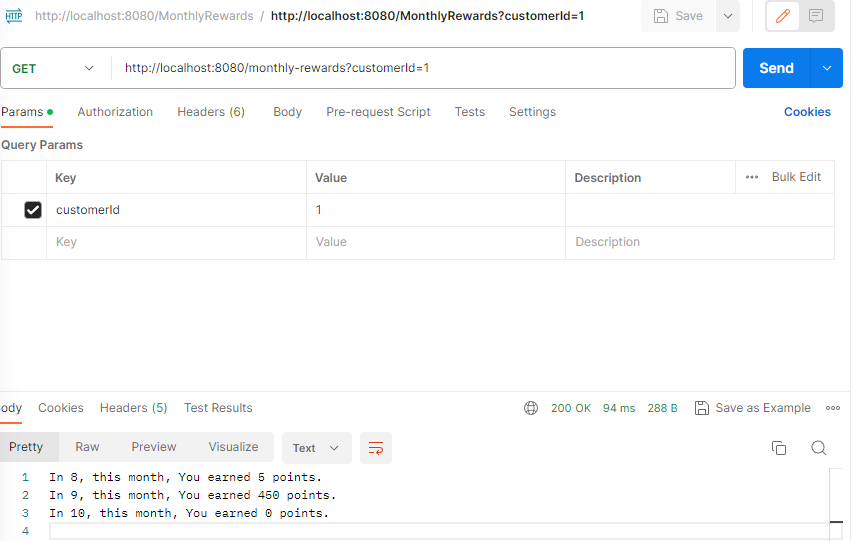
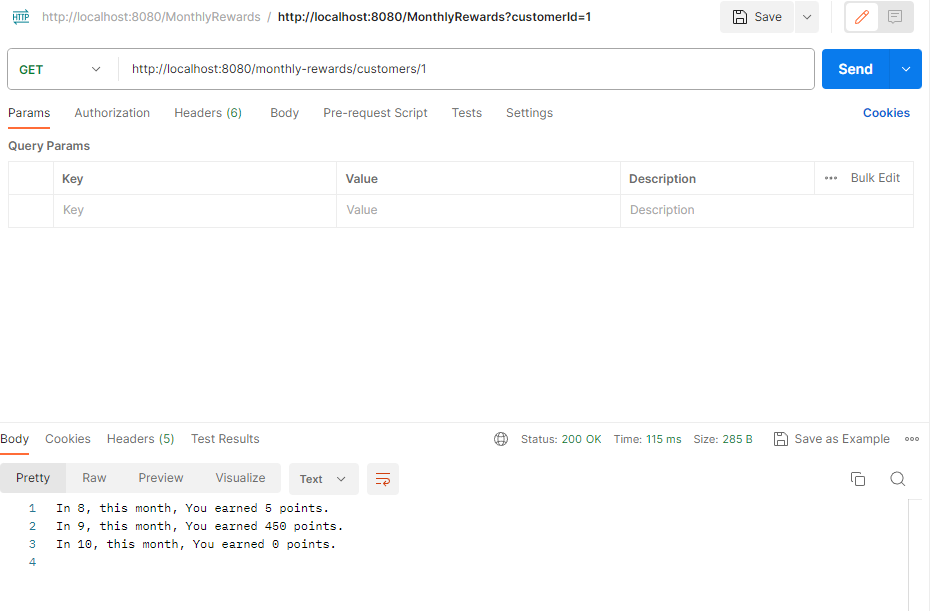
refactor controller to path variable and add jacoco test coverage to readme

diff --git a/src/main/java/com/challenge/code/controller/RewardsController.java b/src/main/java/com/challenge/code/controller/RewardsController.java
@@ -6,10 +6,9 @@ import lombok.extern.slf4j.Slf4j;
 import org.springframework.beans.factory.annotation.Autowired;
 import org.springframework.http.ResponseEntity;
 import org.springframework.web.bind.annotation.GetMapping;
+import org.springframework.web.bind.annotation.PathVariable;
 import org.springframework.web.bind.annotation.RequestParam;
 import org.springframework.web.bind.annotation.RestController;
-
-import java.time.LocalDateTime;
 
 @Slf4j
 @RestController
@@ -22,8 +21,8 @@ public class RewardsController {
         this.rewardsService = rewardsService;
     }
 
-    @GetMapping("/monthly-rewards")
-    public ResponseEntity getMonthlyRewardReport(@RequestParam Integer customerId) throws ServiceException{
+    @GetMapping("/monthly-rewards/customers/{customerId}")
+    public ResponseEntity getMonthlyRewardReport(@PathVariable Integer customerId) throws ServiceException{
 
         long start = System.nanoTime();
         log.info("/MonthlyRewards--getMonthlyRewardReport start time: "+ start);
@@ -39,8 +38,8 @@ public class RewardsController {
         return ResponseEntity.ok().body(report);
     }
 
-    @GetMapping("/total-rewards")
-    public ResponseEntity getTotalRewardReport(@RequestParam Integer customerId) throws ServiceException{
+    @GetMapping("/total-rewards/customers/{customerId}")
+    public ResponseEntity getTotalRewardReport(@PathVariable Integer customerId) throws ServiceException{
 
         long start = System.nanoTime();
         log.info("/TotalRewards--getTotalRewardReport start time: "+ start);

diff --git a/README.md b/README.md
@@ -18,6 +18,8 @@
 ## Customer 3
 ![img_7.png](img_7.png)
 
+# Jacoco Test Coverage
+![img_10.png](img_10.png)
 # Health Check
 ![img_9.png](img_9.png)![img_8.png](img_8.png)
 
